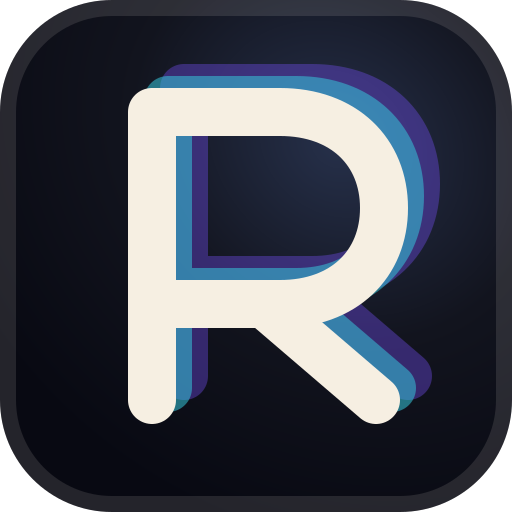
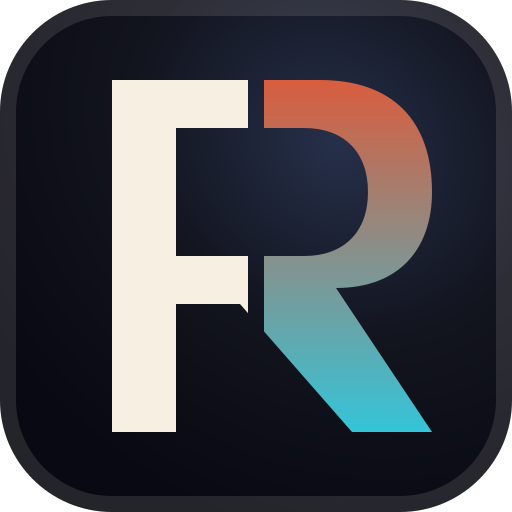
feat: chunky gap-channel R — split-tone with pill clip
Replace layered R with a heavy chunky letterform split vertically by
a 2px dark gap channel. Left half warm paper, right half copper→cyan
gradient. Wrap content in rounded-rect clipPath so nothing bleeds
past the pill edge. All brand assets regenerated.

Changed region(s): [[0.2188, 0.125, 0.875, 0.8438]]

diff --git a/packages/client/src/components/brand/brand-mark.tsx b/packages/client/src/components/brand/brand-mark.tsx
@@ -10,7 +10,12 @@ export function BrandMark({
   title,
   ...props
 }: BrandMarkProps) {
+  const signalId = `${idPrefix}-signal`;
   const fieldId = `${idPrefix}-field`;
+  const rId = `${idPrefix}-r`;
+  const pillClipId = `${idPrefix}-pill`;
+  const leftClipId = `${idPrefix}-left`;
+  const rightClipId = `${idPrefix}-right`;
 
   return (
     <svg
@@ -22,6 +27,26 @@ export function BrandMark({
       {...props}
     >
       <defs>
+        <clipPath id={pillClipId}>
+          <rect x="0" y="0" width="64" height="64" rx="14" />
+        </clipPath>
+        <clipPath id={leftClipId}>
+          <rect x="0" y="0" width="31" height="64" />
+        </clipPath>
+        <clipPath id={rightClipId}>
+          <rect x="33" y="0" width="31" height="64" />
+        </clipPath>
+        <linearGradient
+          id={signalId}
+          x1="32"
+          y1="10"
+          x2="32"
+          y2="54"
+          gradientUnits="userSpaceOnUse"
+        >
+          <stop offset="0" stopColor="#D95D3E" />
+          <stop offset="1" stopColor="#35C4D8" />
+        </linearGradient>
         <radialGradient
           id={fieldId}
           cx="0"
@@ -34,58 +59,19 @@ export function BrandMark({
           <stop offset="0.48" stopColor="#12141E" />
           <stop offset="1" stopColor="#080912" />
         </radialGradient>
+        <path
+          id={rId}
+          d="M14 10H40C49 10 54 15 54 24C54 31 50 36 42 36L54 54H44L30 38H22V54H14ZM22 16H38C43 16 46 19 46 24C46 29 43 32 38 32H22Z"
+        />
       </defs>
-      <rect width="64" height="64" rx="14" fill={`url(#${fieldId})`} />
-      <g transform="translate(4, -3)" opacity="0.4">
-        <path
-          d="M19 50V14h16c8 0 13 5 13 12s-5 12-13 12H19"
-          fill="none"
-          stroke="#6F4BE8"
-          strokeWidth="6"
-          strokeLinecap="round"
-          strokeLinejoin="round"
-        />
-        <path
-          d="M33 38l14 12"
-          fill="none"
-          stroke="#6F4BE8"
-          strokeWidth="6"
-          strokeLinecap="round"
-        />
-      </g>
-      <g transform="translate(2, -1.5)" opacity="0.55">
-        <path
-          d="M19 50V14h16c8 0 13 5 13 12s-5 12-13 12H19"
-          fill="none"
-          stroke="#35C4D8"
-          strokeWidth="6"
-          strokeLinecap="round"
-          strokeLinejoin="round"
-        />
-        <path
-          d="M33 38l14 12"
-          fill="none"
-          stroke="#35C4D8"
-          strokeWidth="6"
-          strokeLinecap="round"
-        />
-      </g>
-      <g>
-        <path
-          d="M19 50V14h16c8 0 13 5 13 12s-5 12-13 12H19"
-          fill="none"
-          stroke="#F6EFE2"
-          strokeWidth="6"
-          strokeLinecap="round"
-          strokeLinejoin="round"
-        />
-        <path
-          d="M33 38l14 12"
-          fill="none"
-          stroke="#F6EFE2"
-          strokeWidth="6"
-          strokeLinecap="round"
-        />
+      <g clipPath={`url(#${pillClipId})`}>
+        <rect width="64" height="64" fill={`url(#${fieldId})`} />
+        <g clipPath={`url(#${leftClipId})`}>
+          <use href={`#${rId}`} fill="#F6EFE2" fillRule="evenodd" />
+        </g>
+        <g clipPath={`url(#${rightClipId})`}>
+          <use href={`#${rId}`} fill={`url(#${signalId})`} fillRule="evenodd" />
+        </g>
       </g>
       <rect
         x="1"
